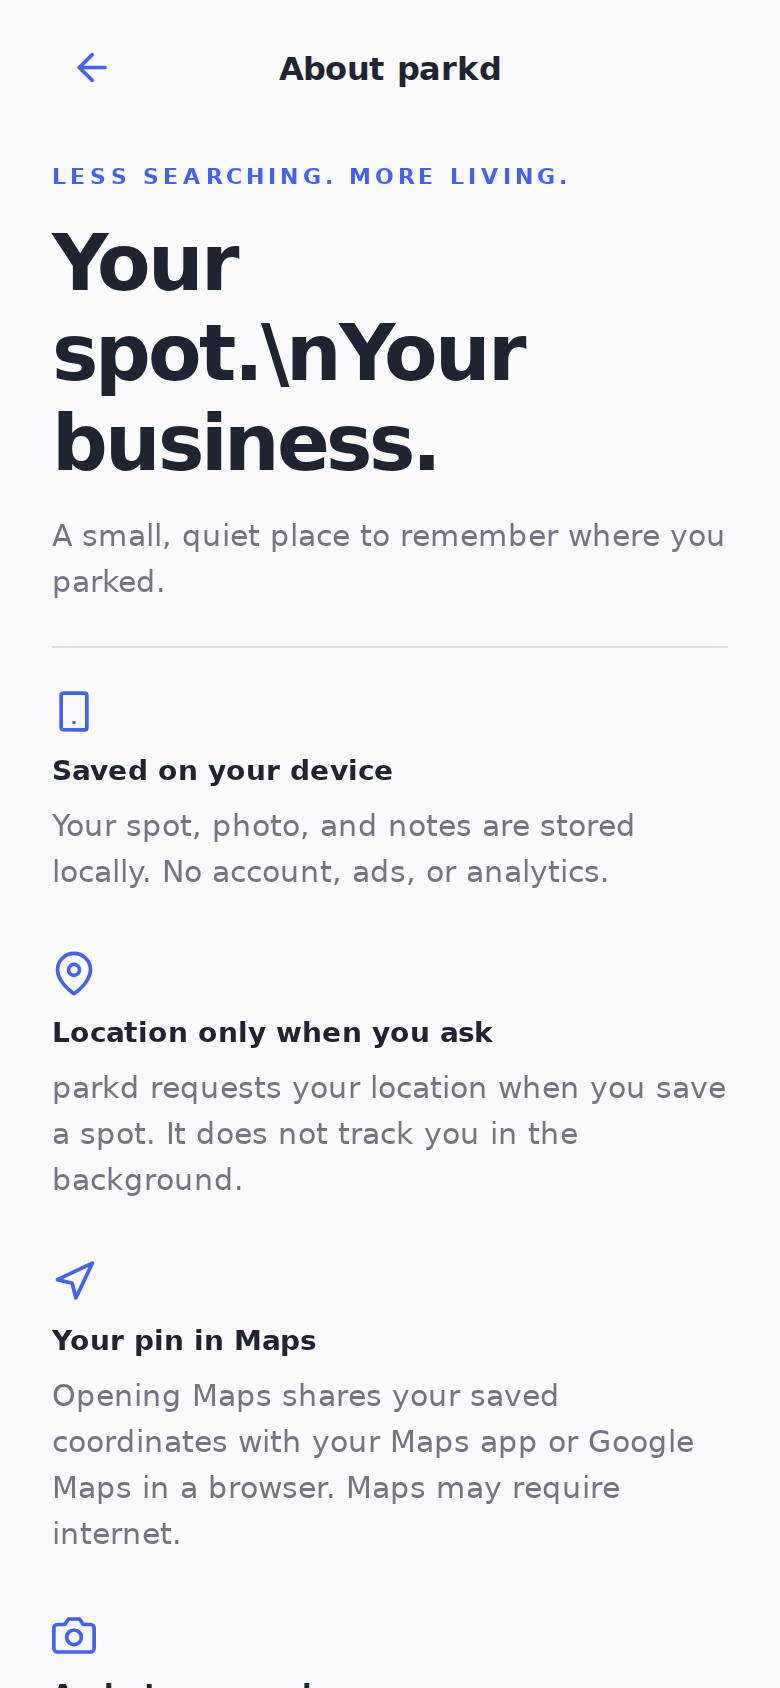
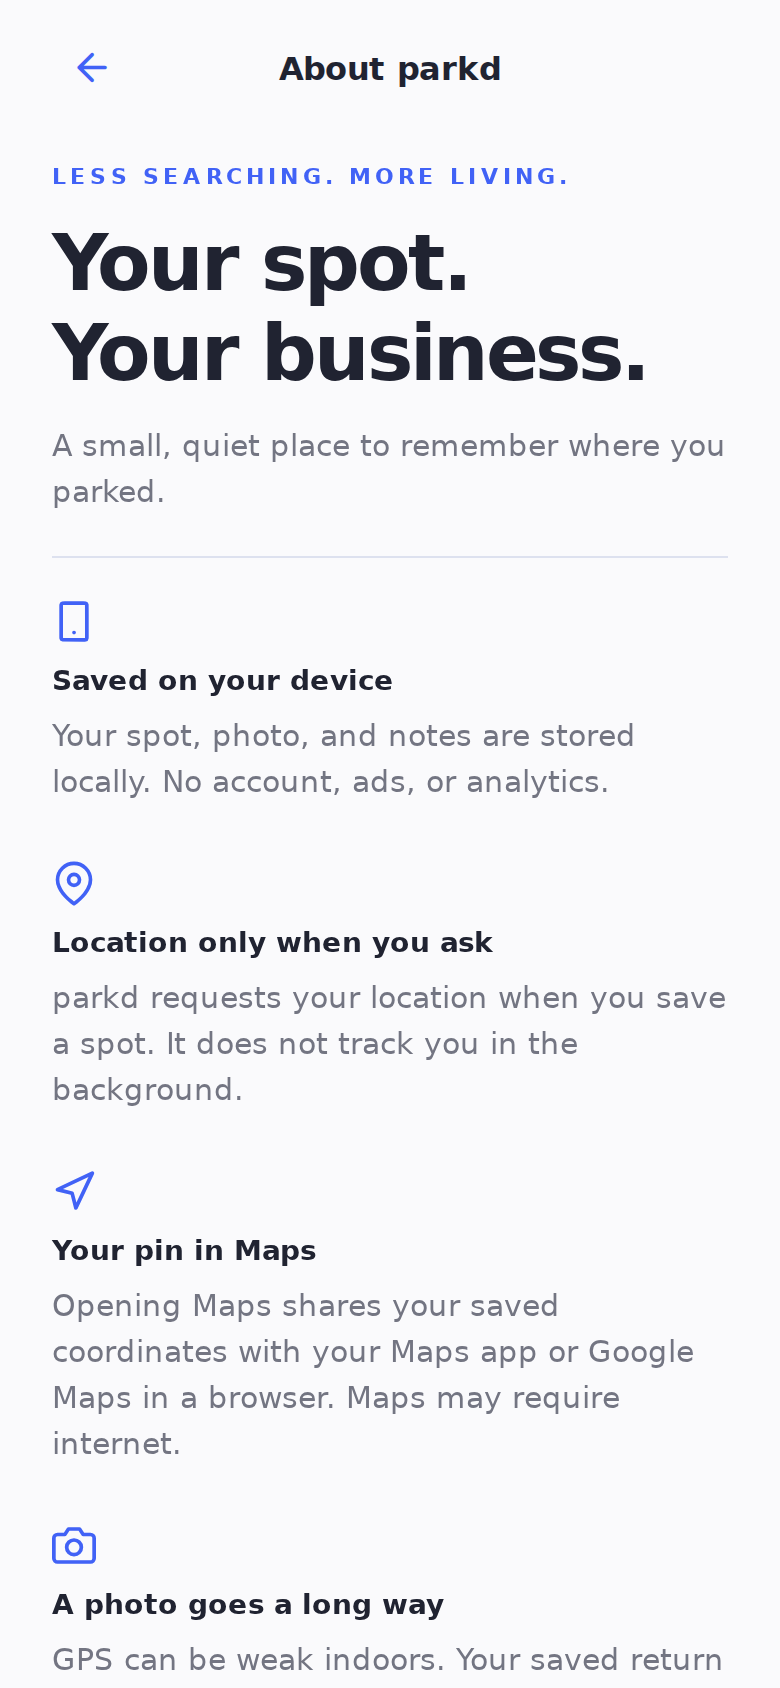
Fix literal newline escapes on About screen and verify rendered breaks

diff --git a/src/app/about.tsx b/src/app/about.tsx
@@ -1,9 +1,9 @@
 import { Text, View } from 'react-native';
 import { Icon, s, Screen } from '../ui';
 export default function About() {
-  return <Screen back title="About parkd"><Text style={s.eyebrow}>LESS SEARCHING. MORE LIVING.</Text><Text style={s.title}>Your spot.\nYour business.</Text><Text style={s.body}>A small, quiet place to remember where you parked.</Text>
+  return <Screen back title="About parkd"><Text style={s.eyebrow}>LESS SEARCHING. MORE LIVING.</Text><Text style={s.title}>{'Your spot.\nYour business.'}</Text><Text style={s.body}>A small, quiet place to remember where you parked.</Text>
     <View style={s.divider} />
     {[['smartphone', 'Saved on your device', 'Your spot, photo, and notes are stored locally. No account, ads, or analytics.'], ['map-pin', 'Location only when you ask', 'parkd requests your location when you save a spot. It does not track you in the background.'], ['navigation', 'Your pin in Maps', 'Opening Maps shares your saved coordinates with your Maps app or Google Maps in a browser. Maps may require internet.'], ['camera', 'A photo goes a long way', 'GPS can be weak indoors. Your saved return steps, floor, space, and photo remain available offline.']] .map(([icon, title, body]) => <View key={title} style={{ gap: 9, marginBottom: 27 }}><Icon name={icon as 'smartphone' | 'map-pin' | 'navigation' | 'camera'} /><Text style={s.fieldLabel}>{title}</Text><Text style={s.body}>{body}</Text></View>)}
-    <Text style={s.mutedCenter}>parkd · version 0.2.0\nClearing app data or uninstalling removes your saved spot.</Text>
+    <Text style={s.mutedCenter}>{'parkd · version 0.2.1\nClearing app data or uninstalling removes your saved spot.'}</Text>
   </Screen>;
 }

diff --git a/docs/VALIDATION.md b/docs/VALIDATION.md
@@ -1,5 +1,10 @@
 # Validation — 12 October 2026
 
+## About screen newline fix — 0.2.1
+
+The About heading and app-data footer previously rendered literal backslash-n characters because the escapes were written directly in JSX text. They now use JavaScript string expressions so real line breaks render. The browser smoke test checks the heading and footer text, and verifies that no literal backslash-n is visible. Strict typecheck, lint, web export, and the smoke suite passed. The font comparisons are separate preview artifacts; app typography has not changed.
+
+
 ## Your way back and phone-reported issues — 0.2.0
 
 Validation passed: 17 resilience scenarios, the original browser smoke suite, five unit test groups, strict TypeScript, lint, and web export. Native keyboard and Maps behavior still require device verification.
